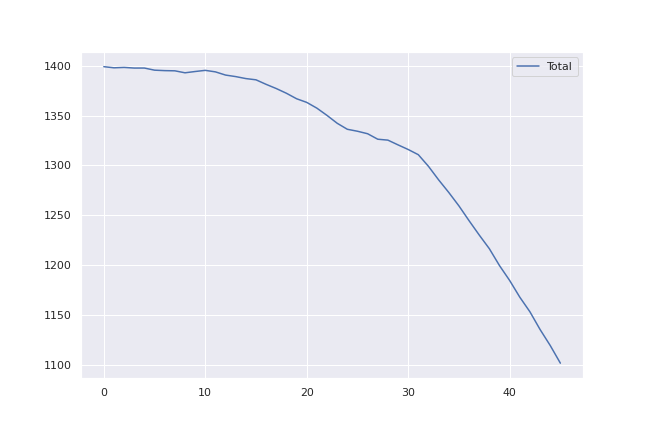
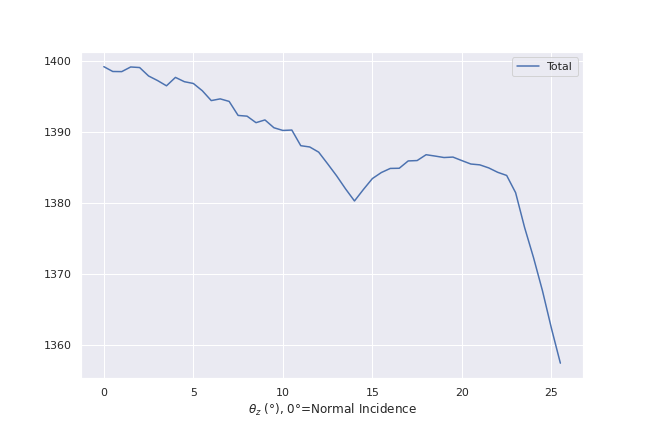
Set transversal index 0-45, added plot labels

diff --git a/analysis.py b/analysis.py
@@ -34,6 +34,13 @@ def plot_heatmap(trace, values='efficiency'):
     plt.savefig(pic_path)
     plt.show()
 
+def contains_flux_or_losses(main_str_list, substr_list=["flux", "losses"]):
+    for m in main_str_list:
+        for s in substr_list:
+            if s in m:
+                return True
+    return False
+
 
 ideal_tr_df_list = [reader.read(tr) for tr in ideal_transversal_traces]
 ideal_ln_df_list = [reader.read(ln) for ln in ideal_longitudinal_traces]
@@ -47,36 +54,35 @@ ideal_ln_df_list = [reader.read(ln) for ln in ideal_longitudinal_traces]
 # for ln in ideal_longitudinal_traces:
 #     plot_heatmap(ln)
 
-df = ideal_tr_df_list[0]
-df.index = df.index-90
-df["cos_index"] = np.cos(np.deg2rad(df.index))
-df["intercept_factor"] = df["efficiency"]/df["cos_index"]
-df["total"] = df["potential_flux"]*df["cos_factor"] - \
-                                df["shadow_losses"] - \
-                                df["missing_losses"] -\
-                                df["reflectivity_losses"] - \
-                                df["absorptivity_losses"]
+df = ideal_ln_df_list[0]
+df["intercept_factor"] = df["absorbed_flux"]/ (df["potential_flux"] * df["cos_factor"])
+# Used to confirm absorbed calculation
+# df["calculated_absorbed"] = df["potential_flux"]*df["cos_factor"] - \
+#                                 df["shadow_losses"] - \
+#                                 df["missing_losses"] -\
+#                                 df["reflectivity_losses"] - \
+#                                 df["absorptivity_losses"]
 
 def plot_columns_list(df, columns_list):
     """ Plots list of columns in same plot """
     pic_path = os.path.join(os.getcwd(), "export", "ideal-plain", "plots", 
-                            "Transversal",'-'.join(columns_list)+".png")
+                            df.title,'-'.join(columns_list)+".png")
     utils.mkdir_if_not_exists(os.path.dirname(pic_path))
     fig, ax = plt.subplots(figsize=(9,6))
     for col in columns_list:        
         ax.plot(df[col], label=col.title().replace("_"," "))
+    ax.set_xlabel(df.xlabel)
+    if contains_flux_or_losses(columns_list):
+        ax.set_ylabel("Watts")
+    ax.set_title(df.title)
     ax.legend()
     plt.savefig(pic_path)
     plt.show()
     
-# plot_columns_list(df, ["intercept_factor", "efficiency"])
-# plot_quantities(df, "cos_factor", "cos_90_index")
-# plot_quantities(df, "absorbed_flux", "total")
+plot_columns_list(df, ["intercept_factor", "efficiency"])
 
 
 # for i in df.columns:
 #     plot_columns_list(df, [i])
 
 
-# ideal_transversal_traces[0].export_vtk()
-# ideal_transversal_traces[0].export_obj()

diff --git a/traces.py b/traces.py
@@ -90,7 +90,7 @@ class Transversal(Trace):
         super().__init__(min_angle, max_angle, step, rays, geometry, name=self.__class__.__name__)
         self.angle_pairs = [f"{a:.1f},0" for a in self.angles]
         self.sun_col = 3  # sun direction column in txt output file
-        self.xlabel = "$(\degree)$, 90$\degree$=Normal Incidence"
+        self.xlabel = "$\\theta_z$ $(\degree)$, 0$\degree$=Normal Incidence"
 
 
 class Longitudinal(Trace):
@@ -98,4 +98,4 @@ class Longitudinal(Trace):
         super().__init__(min_angle, max_angle, step, rays, geometry, name=self.__class__.__name__)
         self.angle_pairs = [f"90,{a:.1f}" for a in self.angles]
         self.sun_col = 4  # sun direction column in txt output file
-        self.xlabel = "$(\degree)$, 0$\degree$=Normal Incidence"
+        self.xlabel = "$\\theta_z$ $(\degree)$, 0$\degree$=Normal Incidence"

diff --git a/reader.py b/reader.py
@@ -1,8 +1,5 @@
 import pandas as pd
 from config import trace
-from traces import Transversal
-import matplotlib.pyplot as plt
-import numpy as np
 
 
 tr_args = trace.transversal.values()
@@ -35,6 +32,8 @@ def read(trace):
     for key in columns.keys():
         trace_df[key] = df[0].iloc[trace_df.index + columns.get(key)].astype('float').values
     trace_df = trace_df.set_index("angle")
+    if trace.name == "Transversal":
+        trace_df.index = trace_df.index-90
     return get_trace_attrs(trace_df, trace)
 
 
